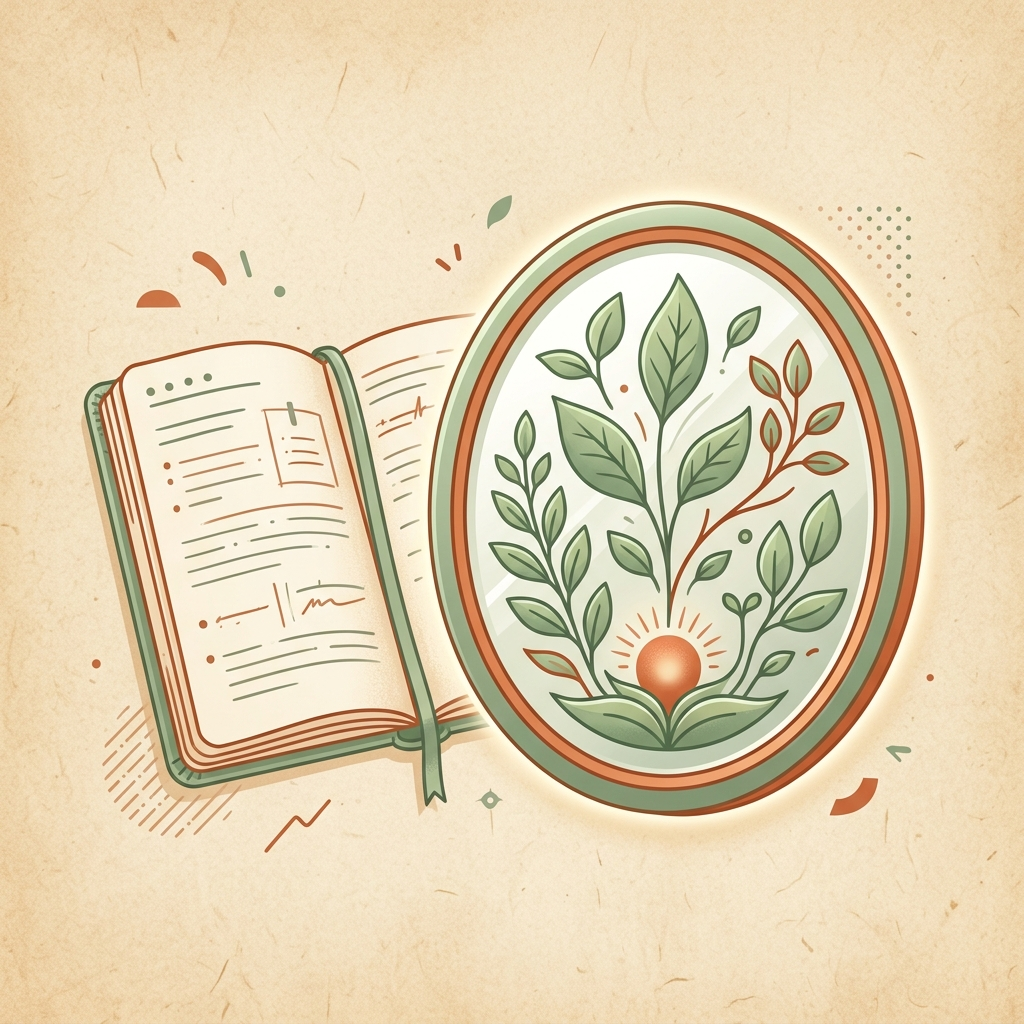
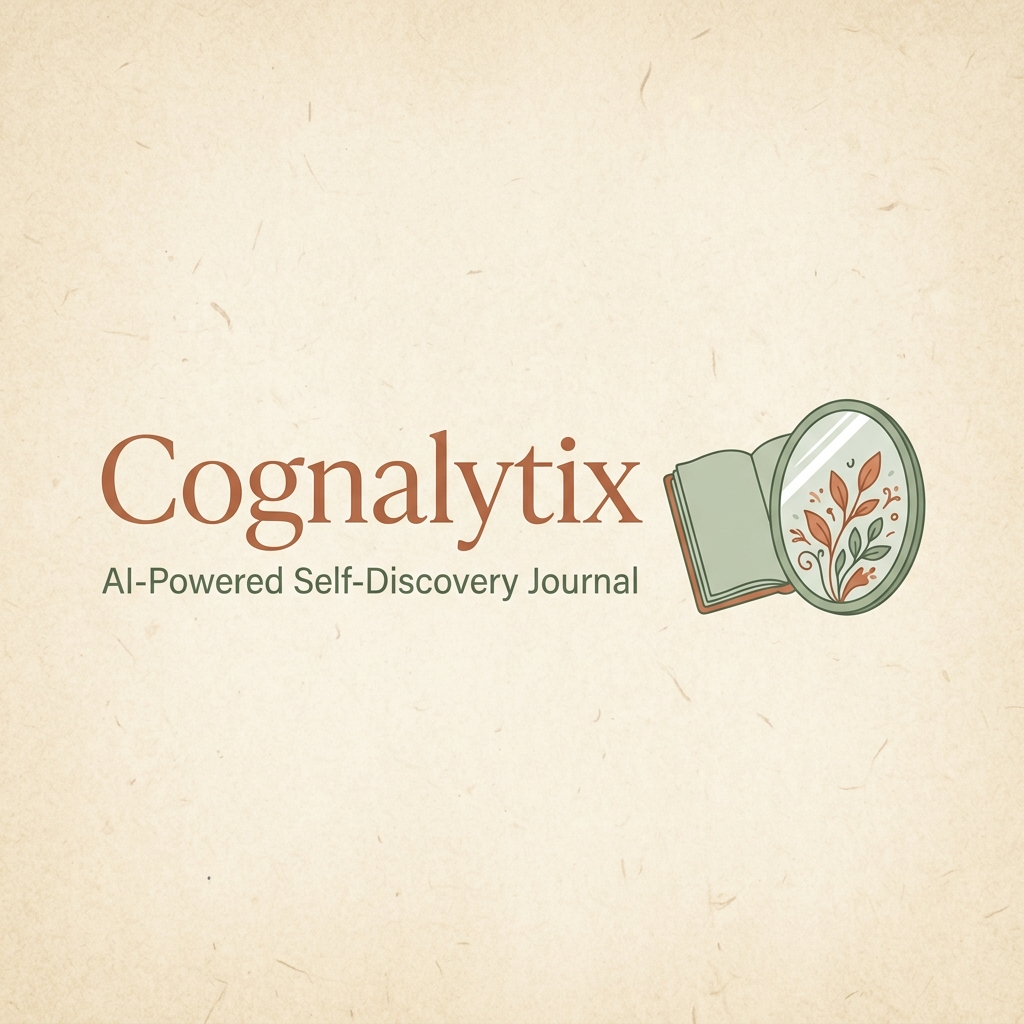
docs: make all links relative and target backend repo structure

diff --git a/README.md b/README.md
@@ -2,40 +2,24 @@
 
 # Cognalytix
 
-### AI-Powered Self-Discovery Journal & Growth-Insight Platform
+### AI-Powered Self-Discovery Journal & Growth-Insight Engine
 
-**Cognalytix** is an introspective journaling platform that turns personal reflections into structured self-discovery cards. By analyzing journal text at both paragraph and entry levels, it maps long-term emotional patterns, detects growth shifts, and narrates what it finds—helping users realize: *"I never noticed that about myself."*
-
----
-
-## The Problem Cognalytix Solves
-
-Traditional journaling tools are static logs; they record thoughts but do not help you find patterns. Modern AI solutions often send entire journals directly to LLMs, which is slow, expensive, and leads to fragmented vocabularies (e.g. creating different labels for "work stress", "office tension", and "job strain"). 
-
-Cognalytix solves this using a **hybrid SQL + dual-AI strategy**:
-1. **Local Classification Sidecar**: Extracts raw, structured keyphrases and emotions per paragraph on CPU using fast, quantized ONNX models in milliseconds.
-2. **Semantic pgvector Deduplication**: Uses cosine similarity to match extracted tags against the user's existing vocabulary, reusing labels when similarity is $\ge 0.75$ to keep tag lists clean and consistent.
-3. **Generative Mirror Narration**: Aggregates history using PostgreSQL queries and uses a local LLM to translate those facts into structured growth reflections ("Mirror Cards").
+**Cognalytix** is the core backend services and AI orchestration engine that turns personal journal entries into structured self-discovery cards. It processes raw journal text, detects emotional patterns across topic families using a local classification sidecar, semantically deduplicates user vocabulary via PostgreSQL `pgvector`, and narrates growth trends using localized LLMs.
 
 ---
 
-## Project Structure
+## Key Features
 
-The codebase is split into modular components:
-
-| Directory | Description |
-|---|---|
-| [**`source/`**](file:///home/lightdesk/Downloads/Projects/Cognalytix/source/) | Spring Boot 4 backend orchestrating REST APIs, async AI analysis, and pgvector storage. |
-| [**`sidecar/`**](file:///home/lightdesk/Downloads/Projects/Cognalytix/sidecar/) | Python FastAPI service running Roberta (GoEmotions) & MiniLM models via ONNX. |
-| [**`frontend/`**](file:///home/lightdesk/Downloads/Projects/Cognalytix/frontend/) | React 19 single-page app styled with custom warm paper palettes and serif display typography. |
-| [**`docker/`**](file:///home/lightdesk/Downloads/Projects/Cognalytix/docker/) | Custom PostgreSQL 16 image with pgvector pre-installed and health checks. |
-| [**`scripts/`**](file:///home/lightdesk/Downloads/Projects/Cognalytix/scripts/) | Automated stack verification and lifecycle integration demo script. |
+- **Dual-AI Architecture**: Leverages local ONNX models for sub-second paragraph classification and Ollama chat models for high-level insight synthesis and narration.
+- **Semantic Vocabulary Matching**: Utilizes `nomic-embed-text` and PostgreSQL `pgvector` to identify and reuse semantically similar user labels ($\ge 0.75$ cosine similarity), preventing tag duplication.
+- **Explainable Trajectories**: Combines SQL-first statistical aggregation with LLM natural language generation to explain emotional shifts.
+- **Tabular Data Export**: Offers a flat, paginated JSON export of journal sections for analytics tools (e.g., Power BI).
 
 ---
 
 ## System Architecture
 
-Cognalytix runs a containerized service mesh accessing a native host-level instance of Ollama to leverage GPU hardware acceleration.
+The service mesh operates as a containerized stack that connects to a native host-level instance of Ollama to leverage GPU hardware acceleration.
 
 ```mermaid
 graph TD
@@ -60,48 +44,35 @@ graph TD
 
 ## Documentation System
 
-Explore the dedicated docs directory for topic-specific guides:
+Explore the following guides for detailed implementation and setup:
 
-- 🚀 [**Getting Started**](file:///home/lightdesk/Downloads/Projects/Cognalytix/docs/getting-started.md): Installation, quick start, local developer setup, and port mappings.
-- ⚙️ [**System Architecture**](file:///home/lightdesk/Downloads/Projects/Cognalytix/docs/architecture.md): The dual-AI engine breakdown, semantic label selectors, and pattern narration.
-- 🔌 [**API Reference**](file:///home/lightdesk/Downloads/Projects/Cognalytix/docs/api.md): REST endpoints, JSON payloads, pagination, and admin functions.
-- 🗄️ [**Database Schema**](file:///home/lightdesk/Downloads/Projects/Cognalytix/docs/database.md): Schema tables, pgvector index settings, JSONB shapes, and migrations.
-- 🔧 [**Troubleshooting**](file:///home/lightdesk/Downloads/Projects/Cognalytix/docs/troubleshooting.md): IDE compile fixes, connection timeouts, and missing model errors.
+- 🚀 [**Getting Started Guide**](docs/getting-started.md): Installation steps, host Ollama prep, local development, and port mappings.
+- ⚙️ [**System Architecture**](docs/architecture.md): The Dual-AI engine division of labor, label matching, and mirror narration.
+- 🔌 [**API Reference**](docs/api.md): Complete REST endpoint documentation, request/response bodies, and authentication controls.
+- 🗄️ [**Database Schema**](docs/database.md): Schema entity details, pgvector index definitions, JSONB shapes, and migrations.
+- 🔧 [**Troubleshooting Guide**](docs/troubleshooting.md): Compile fixes, network connection resolutions, and cold-start warmup settings.
 
 ---
 
 ## Quick Start (Docker)
 
-To run the entire system in containerized mode:
+To run the backend alongside its database and ONNX sidecar:
 
-1. **Pull required models** in your host Ollama instance:
+1. **Pull required models** on host Ollama:
    ```bash
    ollama pull qwen3.5:4b
    ollama pull nomic-embed-text
    ollama pull qwen3.5:0.8b
    ```
-2. **Start the stack** via Docker Compose:
+2. **Start backend and infrastructure**:
+   Ensure you run the Docker compose from the repository root (parent folder):
    ```bash
-   docker compose up -d
+   docker compose up -d postgres sidecar backend
    ```
-3. **Verify the services** are healthy:
+3. **Verify backend health**:
    ```bash
-   docker compose ps
+   curl -sf http://localhost:8000/actuator/health
    ```
-4. **Access the application**:
-   - Frontend SPA: **`http://localhost:5173`**
-   - REST API: **`http://localhost:8000`**
-
----
-
-## Running the Automated Demo
-
-The repository includes a self-contained shell script that verifies the entire API and processing lifecycle. It performs real HTTP calls, runs ONNX segmentation, calls Ollama, matches labels semantically in PostgreSQL, and outputs growth results.
-
-Run the script:
-```bash
-./scripts/demo.sh
-```
 
 ---
 

diff --git a/docs/architecture.md b/docs/architecture.md
@@ -31,7 +31,7 @@ graph TD
 
 ## The Dual-AI Engine Strategy
 
-![Dual-AI Engine Graphic](file:///home/lightdesk/Downloads/Projects/Cognalytix/docs/images/dual_ai_engine.jpg)
+![Dual-AI Engine Graphic](images/dual_ai_engine.jpg)
 *Visual representation of the Dual-AI processing engine: Structured local classification (left) combined with generative narration (right).*
 
 ### 1. The Fast Local ONNX Sidecar (Python FastAPI)
@@ -99,5 +99,5 @@ The **Post-Entry Mirror Card** generation follows a strict "SQL Detects, AI Narr
 
 ## Next Steps
 
-- Consult the [Database Schema Guide](file:///home/lightdesk/Downloads/Projects/Cognalytix/docs/database.md) to inspect vector columns and table definitions.
-- Go to [Getting Started](file:///home/lightdesk/Downloads/Projects/Cognalytix/docs/getting-started.md) to set up and run the system.
+- Consult the [Database Schema Guide](database.md) to inspect vector columns and table definitions.
+- Go to [Getting Started](getting-started.md) to set up and run the system.

diff --git a/docs/getting-started.md b/docs/getting-started.md
@@ -52,7 +52,7 @@ Cognalytix uses host-level Ollama for heavy LLM operations (summary generation, 
 The fastest way to run the entire Cognalytix stack (PostgreSQL + Python Sidecar + Spring Boot Backend + React Frontend) is using Docker Compose.
 
 ### Step A: Spin Up the Stack
-From the project root directory, run:
+From the project root directory (the parent of this backend directory), run:
 ```bash
 docker compose up -d
 ```
@@ -140,5 +140,5 @@ docker compose up -d postgres sidecar
 
 ## Next Steps
 
-- Explore the [System Architecture](file:///home/lightdesk/Downloads/Projects/Cognalytix/docs/architecture.md) to understand how the dual-AI pipeline and pgvector deduplication work.
-- Review the [API Reference](file:///home/lightdesk/Downloads/Projects/Cognalytix/docs/api.md) to inspect endpoints and schemas.
+- Explore the [System Architecture](architecture.md) to understand how the dual-AI pipeline and pgvector deduplication work.
+- Review the [API Reference](api.md) to inspect endpoints and schemas.

diff --git a/docs/troubleshooting.md b/docs/troubleshooting.md
@@ -18,7 +18,7 @@ If IntelliJ fails to compile the backend or complains about "cannot find symbol"
 
 ### Project Root Directory
 - **Problem**: Opening the root repository folder (`Cognalytix/`) makes IntelliJ treat it as a generic project rather than a Maven project, leading to import errors.
-- **Solution**: Open the **`source/`** directory directly (the folder containing `pom.xml`) as a standalone project in IntelliJ, not the root repository.
+- **Solution**: Open the **`source/`** directory directly (the folder containing `pom.xml`) as a standalone project in IntelliJ, not the parent directory.
 
 ---
 
@@ -30,7 +30,7 @@ The backend REST API records the machine-readable error code `llm_unreachable` i
 - **Problem**: The backend container cannot access host-level Ollama at `localhost:11434`.
 - **Solution**: 
   - Ensure `OLLAMA_BASE_URL` is set to `http://host.docker.internal:11434`.
-  - In `docker-compose.yml`, verify the `backend` service contains:
+  - In your compose file, verify the `backend` service contains:
     ```yaml
     extra_hosts:
       - "host.docker.internal:host-gateway"
@@ -80,7 +80,7 @@ The backend REST API records the machine-readable error code `llm_unreachable` i
   `Bind for 0.0.0.0:5332 failed: port is already allocated`.
 - **Solution**:
   - Cognalytix maps PostgreSQL to host port `5332` to avoid conflicts with native instances running on standard port `5432`.
-  - If `5332` is occupied, change the host port binding in `docker-compose.yml`:
+  - If `5332` is occupied, change the host port binding in your compose file:
     ```yaml
     ports:
       - "5339:5432" # Map to an open port